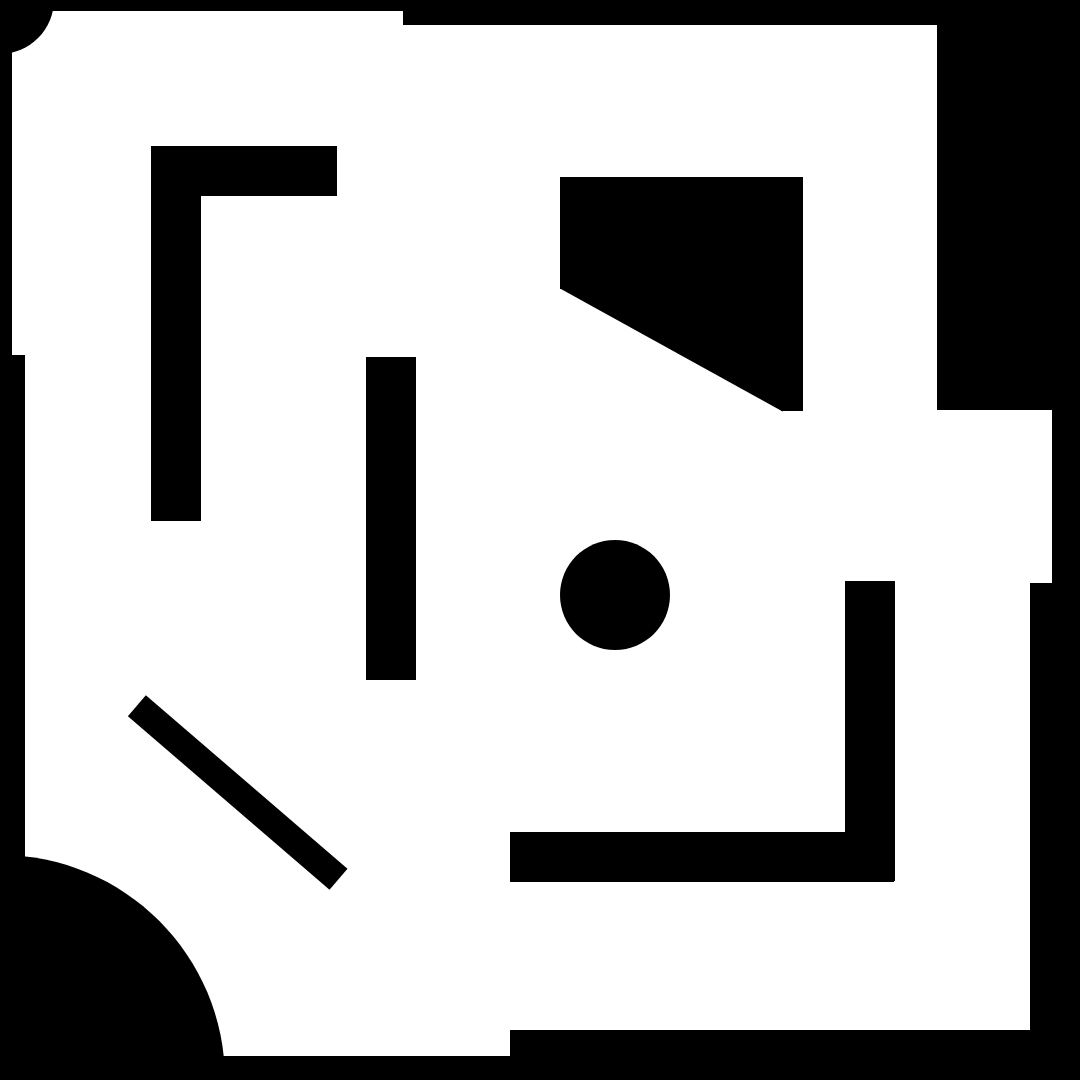
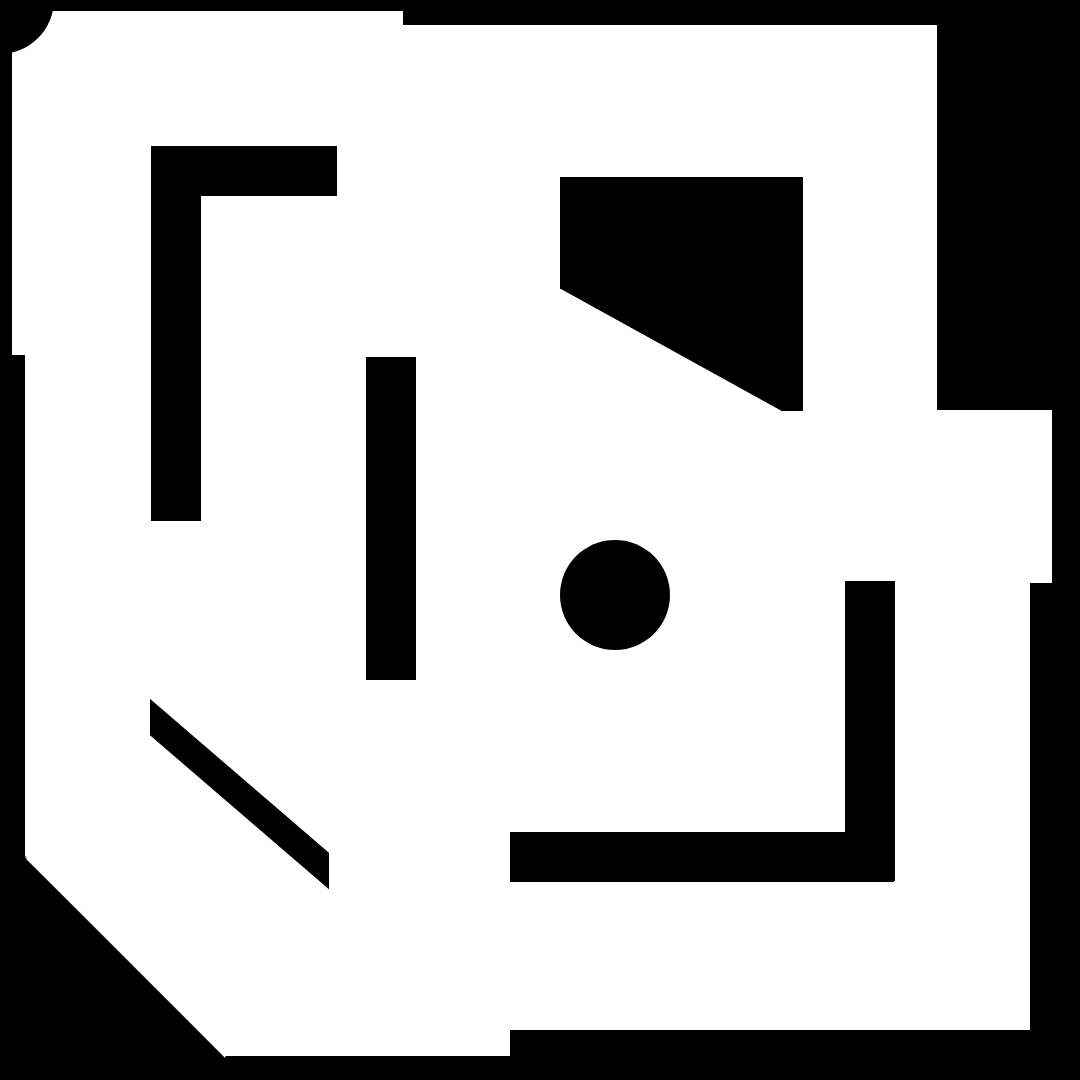
maze_survival

Changed region(s): [[0.0306, 0.7944, 0.2139, 0.9778], [0.3056, 0.7944, 0.3361, 0.825], [0.1222, 0.6417, 0.1528, 0.6722]]

diff --git a/src/game.rs b/src/game.rs
@@ -1,8 +1,8 @@
+
 use macroquad::prelude::*;
 use crate::modules::still_image::StillImage;
 use crate::modules::collision::check_collision;
 use crate::modules::label::Label;
-use std::time::Duration;
 use crate::modules::preload_image::TextureManager;
 
 pub async fn run(junoscary: i32, haruscary: i32, louisscary: i32, score: i32, streak: i32, highscore: i32, tm: TextureManager) -> (String, i32, i32, i32, i32, i32, i32, TextureManager) {
@@ -88,9 +88,10 @@ pub async fn run(junoscary: i32, haruscary: i32, louisscary: i32, score: i32, st
     let mut louisx = 0.0;
     let mut louisy = 0.0;
 
-    let start_time = std::time::Instant::now();
-    let duration = Duration::from_secs(60); // 60 seconds
-
+    //let start_time = std::time::Instant::now();
+    //let duration = Duration::from_secs(60); // 60 seconds
+    
+    let start_t = get_time();
     loop {
         clear_background(WHITE);
         draw_text("Game", 20.0, 40.0, 30.0, WHITE);
@@ -327,7 +328,6 @@ let mut louis_pos = louis.pos();
             louisy = 0.0;
         }
 
-
         louis_pos.y += louisy;
         louis_pos.x += louisx;
         louis.set_position(louis_pos);
@@ -337,15 +337,12 @@ let mut louis_pos = louis.pos();
             let junoscary_value = 1;
             let current_streak = 0;
             return ("death".to_string(), junoscary_value, haruscary_value, louisscary_value, score_value, current_streak, highscore_value, tm);
-
             }
 
         if check_collision(&legoshi, &haru, 1) {
             let haruscary_value = 1;
             let current_streak = 0;
             return ("death".to_string(), junoscary_value, haruscary_value, louisscary_value, score_value, current_streak, highscore_value, tm);
-
-
             }
 
         if check_collision(&legoshi, &louis, 1) {
@@ -356,27 +353,21 @@ let mut louis_pos = louis.pos();
                 highscore_value = score_value;
             }
             return ("death".to_string(), junoscary_value, haruscary_value, louisscary_value, score_value, current_streak, highscore_value, tm);
-
-
             }
 
 // timer
-let elapsed_time = start_time.elapsed();
-        let remaining_time = duration - elapsed_time;
-        if remaining_time.as_secs() == 0 {
-            score_value += 1;
-            current_streak += 1;
-            if current_streak > highscore_value {
-                highscore_value += 1;
-            }
-            return ("win".to_string(), junoscary_value, haruscary_value, louisscary_value, score_value, current_streak, highscore_value, tm);
-        }
+let current_time = get_time() - start_t;
 
-        let seconds = remaining_time.as_secs() % 60;
-        let minutes = remaining_time.as_secs() / 60;
-        lbl_timer.set_text(format!("{}:{:02}", minutes, seconds));
+ lbl_timer.set_text(format!("{:.2}", current_time));
 
-
+ if get_time() - start_t >= 60.0 {
+    score_value += 1;
+    current_streak += 1;
+if current_streak > highscore_value {
+    highscore_value += 1;
+    }
+    return ("win".to_string(), junoscary_value, haruscary_value, louisscary_value, score_value, current_streak, highscore_value, tm);
+}
 
         background.draw();
         legoshi.draw();

diff --git a/src/death.rs b/src/death.rs
@@ -59,15 +59,7 @@ pub async fn run(junoscary_value: i32, haruscary_value: i32, louisscary_value :i
         1.0,    // Normal zoom (100%)
     ).await;
     
-
-    loop {
-        clear_background(backgroundred);
-
-        lbl_score.set_text(&format!("Wins: {}", score_value));
-        lbl_streak.set_text(&format!("Streak: {}", current_streak));
-        lbl_highscore.set_text(format!("Highscore: {}", highscore_value));
-
-        if junoscary_value == 1 {
+    if junoscary_value == 1 {
             img_junoscary.set_image("assets/junoscary.png").await;
             lbl_death.set_text("You died to Juno..");
         }
@@ -82,6 +74,15 @@ pub async fn run(junoscary_value: i32, haruscary_value: i32, louisscary_value :i
             lbl_death.set_text("You died to Louis..");
         }
 
+
+    loop {
+        clear_background(backgroundred);
+
+        lbl_score.set_text(&format!("Wins: {}", score_value));
+        lbl_streak.set_text(&format!("Streak: {}", current_streak));
+        lbl_highscore.set_text(format!("Highscore: {}", highscore_value));
+
+        
 
        
         